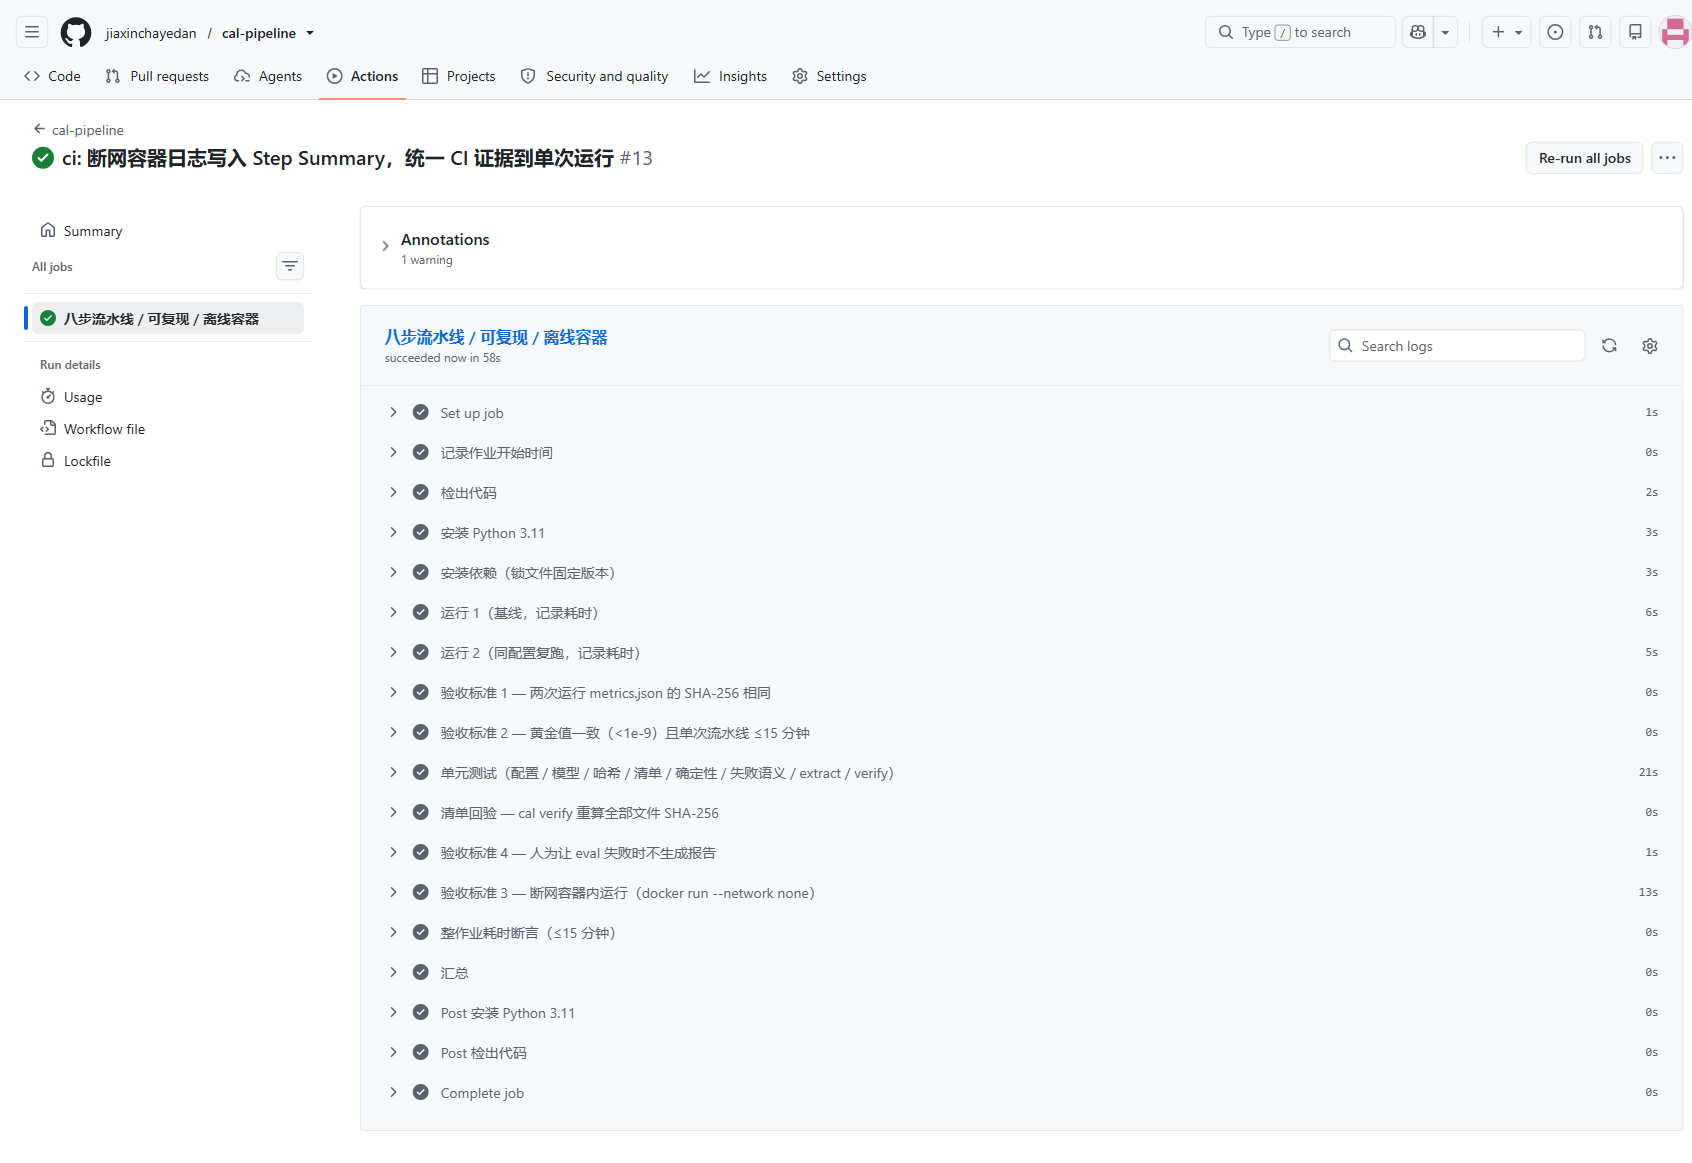
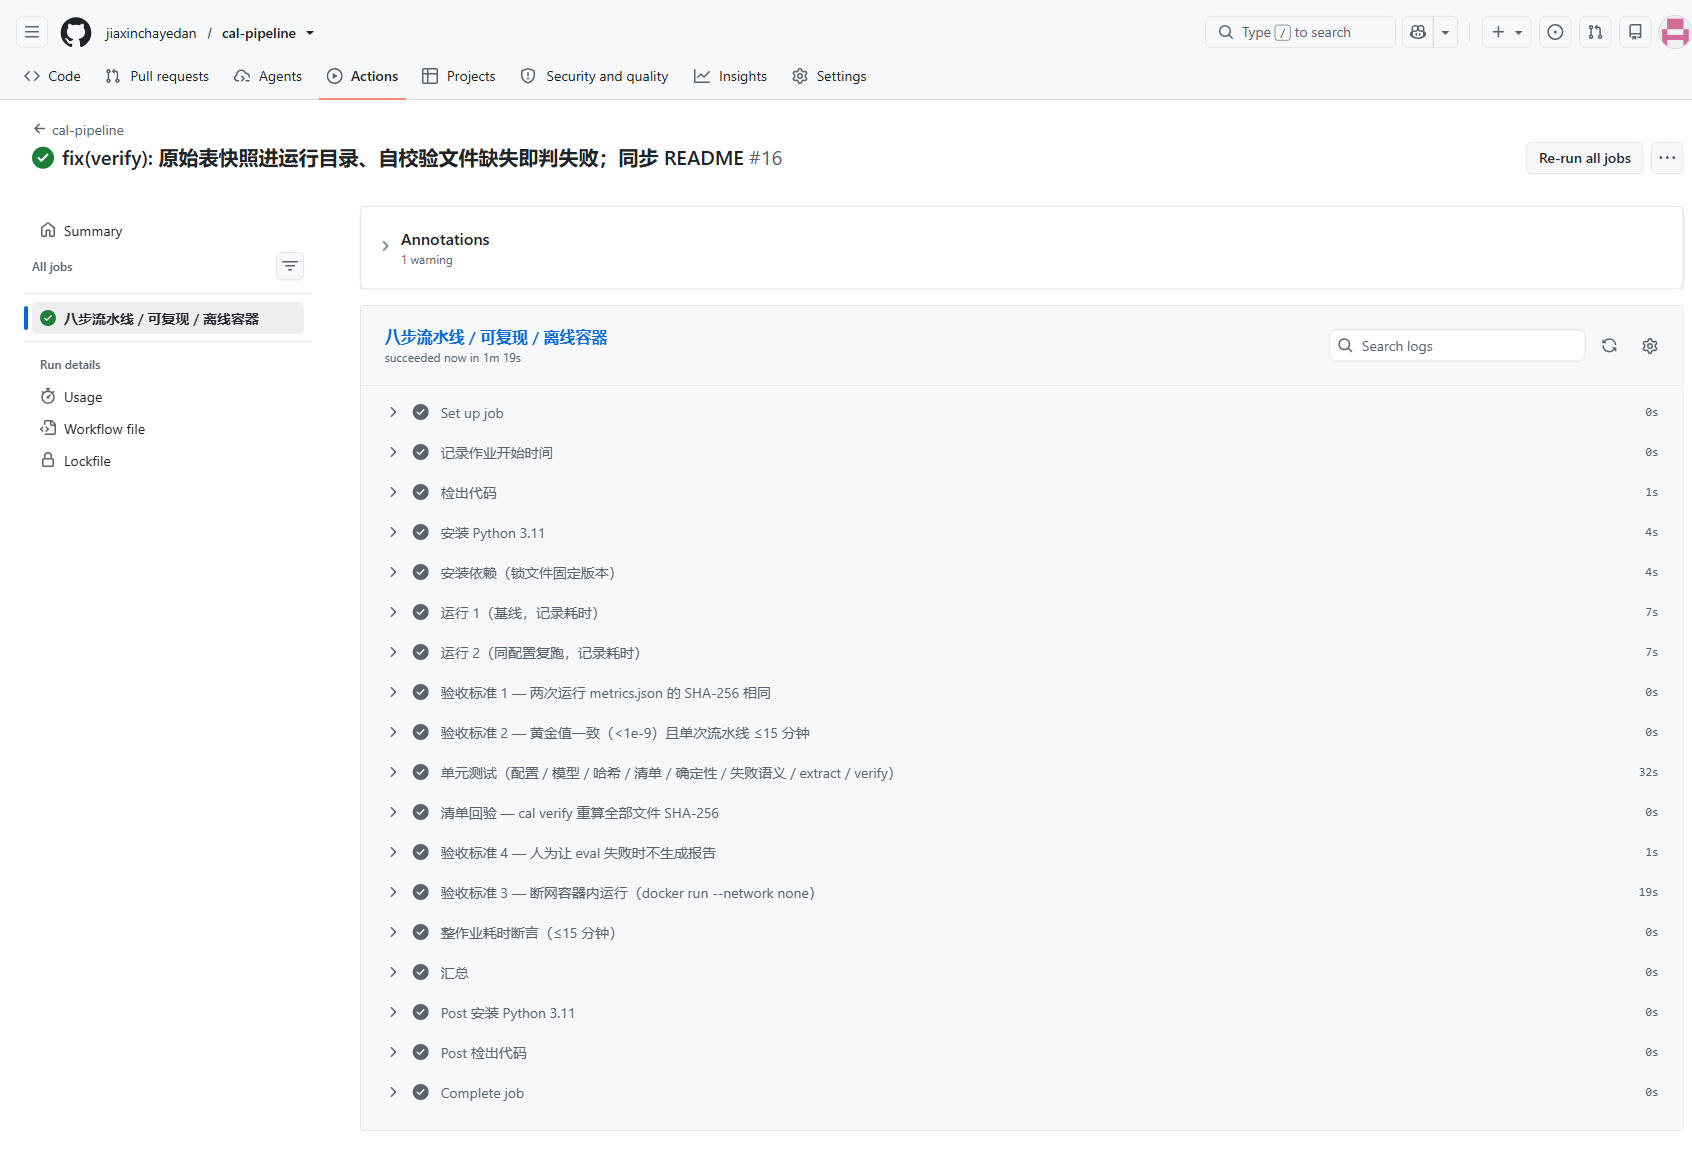
docs: CI 证据更新到 run #16，并附三轮真实失败留痕

Changed region(s): [[0.0307, 0.1238, 0.461, 0.1548]]

diff --git a/README.md b/README.md
@@ -98,23 +98,23 @@ docker run --rm --network none cal-pipeline:latest run --config cal.yaml --run-i
 ## 6. CI 证据（GitHub Actions 真实运行）
 
 - 仓库：<https://github.com/jiaxinchayedan/cal-pipeline>
-- 验证运行：**run #13**（commit `00901e3`）→ <https://github.com/jiaxinchayedan/cal-pipeline/actions/runs/45622149241>
-- 执行环境：`ubuntu-latest` / Python 3.11.18 / 作业总耗时 **54 秒**（作业级硬上限 `timeout-minutes: 15`）
+- 代码提交 `ce715ca` 的验证运行：**run #16** → <https://github.com/jiaxinchayedan/cal-pipeline/actions/runs/45625116056>
+- 执行环境：`ubuntu-latest` / Python 3.11.18 / 作业总耗时 **79 秒**（作业级硬上限 `timeout-minutes: 15`）
 
 | 步骤 | 结论 | 耗时 |
 |---|---|---|
 | 记录作业开始时间 | ✅ | 0s |
-| 检出代码 | ✅ | 2s |
-| 安装 Python 3.11 | ✅ | 3s |
-| 安装依赖（锁文件固定版本） | ✅ | 3s |
-| 运行 1（基线，记录耗时） | ✅ | 6s |
-| 运行 2（同配置复跑，记录耗时） | ✅ | 5s |
+| 检出代码 | ✅ | 1s |
+| 安装 Python 3.11 | ✅ | 4s |
+| 安装依赖（锁文件固定版本） | ✅ | 4s |
+| 运行 1（基线，记录耗时） | ✅ | 7s |
+| 运行 2（同配置复跑，记录耗时） | ✅ | 7s |
 | 验收标准 1 — 两次运行 metrics.json 的 SHA-256 相同 | ✅ | 0s |
 | 验收标准 2 — 黄金值一致（差值 <1e-9）且单次流水线 ≤15 分钟 | ✅ | 0s |
-| 单元测试（22 个） | ✅ | 21s |
+| 单元测试（22 个） | ✅ | 32s |
 | 清单回验 — `cal verify` 重算全部文件 SHA-256 | ✅ | 0s |
 | 验收标准 4 — 人为让 eval 失败时不生成报告 | ✅ | 1s |
-| 验收标准 3 — 断网容器内运行（`docker run --network none`） | ✅ | 13s |
+| 验收标准 3 — 断网容器内运行（`docker run --network none`） | ✅ | 19s |
 | 整作业耗时断言（≤15 分钟） | ✅ | 0s |
 | 汇总 | ✅ | 0s |
 
@@ -126,21 +126,34 @@ CI 日志原文摘录（可在上面的 run 链接里逐行核对）：
 PASS 两次运行 metrics.json SHA-256 完全一致：0429639483244a88a465ee0b0fa9bb4ee397b97504df75d7201d18f1e0b3ddf0
 比对数值叶子 39 个，最大差值 0.000e+00（容差 1e-09）
 PASS 完整流水线耗时均 ≤15 分钟，关键指标与黄金值一致
-22 passed in 21.38s
+22 passed in 31.00s
 [cal] 校验通过：35 个文件 SHA-256 全部一致（含清单自校验）
 PASS 退出码=2、失败步骤与日志路径已输出、report/ 目录不存在
-[cal] 流水线完成 | run_id=offline | metrics=runs/offline/report/metrics.json | sha256=0429639483244a88... | 总耗时=4.83s
+[cal] 流水线完成 | run_id=offline | metrics=runs/offline/report/metrics.json | sha256=0429639483244a88... | 总耗时=7.06s
 PASS 容器在 --network none 下完成八步流水线
-整作业耗时 54s（含检出、测试、镜像构建）
-PASS 整作业耗时 54s ≤ 900s
+整作业耗时 75s（含检出、测试、镜像构建）
+PASS 整作业耗时 75s ≤ 900s
 ```
 
-截图（均取自 run #13，非拼接）：
+截图（均取自 run #16，非拼接）：
 
 | 截图 | 内容 |
 |---|---|
 | `docs/ci-steps.png` | 14 个步骤全部绿色通过，含各步耗时与作业总时长 |
 | `docs/ci-summary.png` | 两次运行 SHA-256 相同、`cal verify` 35 个文件通过、断网容器 `run_id=offline` 完成日志 |
+
+> 说明：本节的数字与截图绑定 run #16（代码提交 `ce715ca`）。之后若只改文档，会触发同一工作流的再验证（如 #17），
+> 结果可在 Actions 页面按 run 编号逐条核对，不存在「截图取一次、数字取另一次」的拼接。
+
+### 6.1 审查与修复记录（真实失败留痕）
+
+| 现象 | 原因 | 处理 |
+|---|---|---|
+| run #1 红：黄金值比对失败 | 本地 cal.yaml 为 CRLF、CI 检出为 LF，配置哈希不同 | 改为语义哈希 + 回归测试 |
+| run #2 红：容器内 `ModuleNotFoundError: cal` | 入口脚本在 `/usr/local/bin`，拿不到 `/app` 的包 | Dockerfile 增加 `PYTHONPATH=/app` |
+| run #11 红：整作业耗时断言找不到开始时间 | `actions/checkout` 清理了工作区里的临时文件 | 开始时间改写 `RUNNER_TEMP` |
+
+这些失败运行都保留在 Actions 历史里，可作为「断言确实会红」的旁证。
 
 ## 7. 测试结果（本机真实输出）
 
@@ -222,4 +235,4 @@ python -m cal run --config cal.yaml   # cal.yaml 中 data.source 改成 extract
 - **`extract` 模式**需自备 `data/raw` 三家原始表，脱敏仅覆盖手机号、邮箱、身份证号三类模式，真实业务字段脱敏策略需按客户规范扩展。
 - **数据为虚构**：行业、区域、企业、需求卡均由种子生成，不对应任何真实主体。
 - **黄金值的来源**：`golden/metrics.json` 由基线版本首次运行产出，经人工核对后作为「合约」入库。它保证的是「算法与数据不再漂移」，不是「模型效果最优」。任何算法或种子变更都必须同步更新黄金值并在提交说明里写清原因，否则 CI 会红。
-- **CI 证据的时效性**：本文所有 CI 数字与截图均取自同一次运行（run #13 / commit `00901e3`）；后续仅文档变更的提交会触发同样的验证，历史运行记录可在 Actions 页面逐条核对。
+- **CI 证据的时效性**：本文所有 CI 数字与截图均绑定同一次运行（run #16 / 代码提交 `ce715ca`）；后续文档变更会触发同样的验证，可在 Actions 页面按 run 编号核对。
